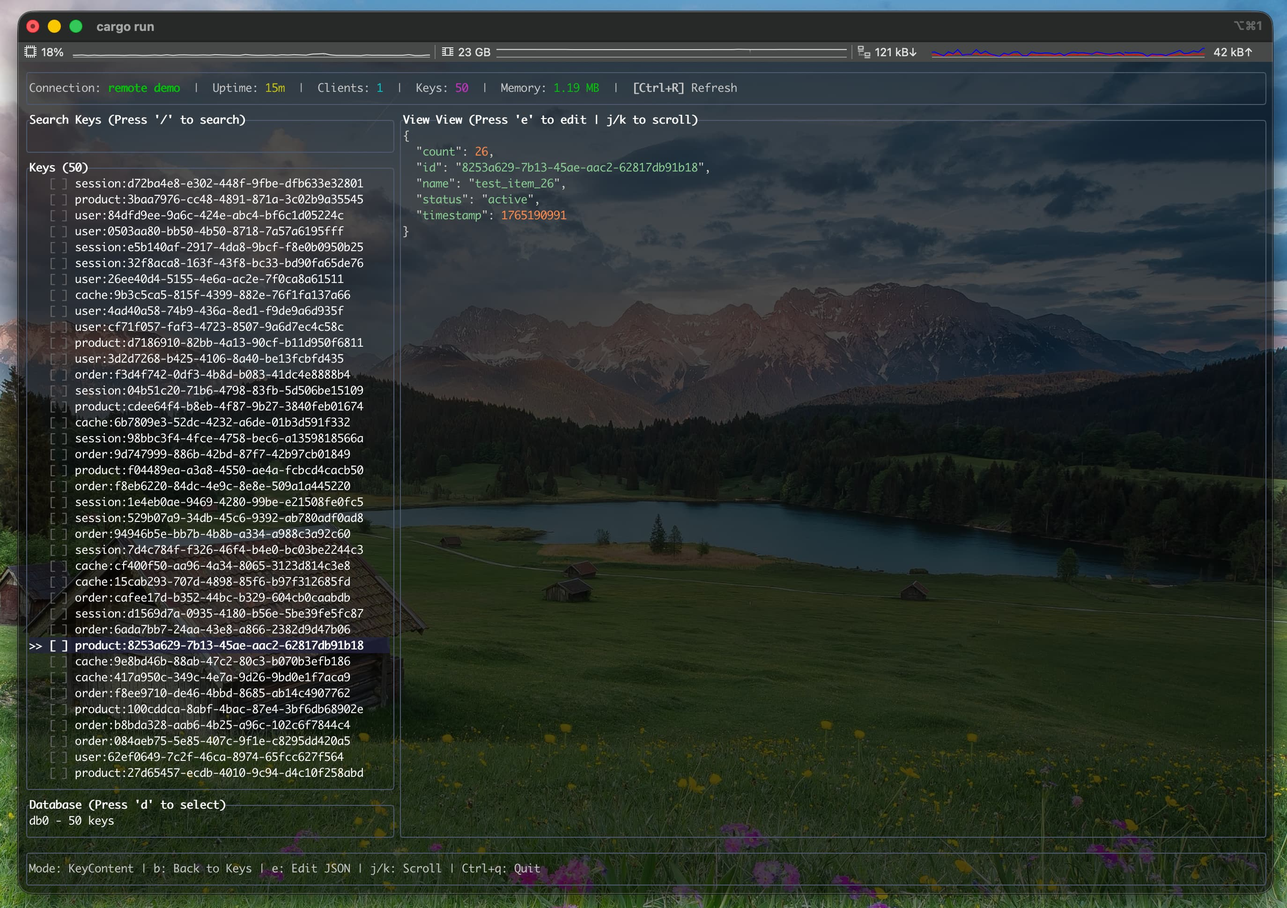
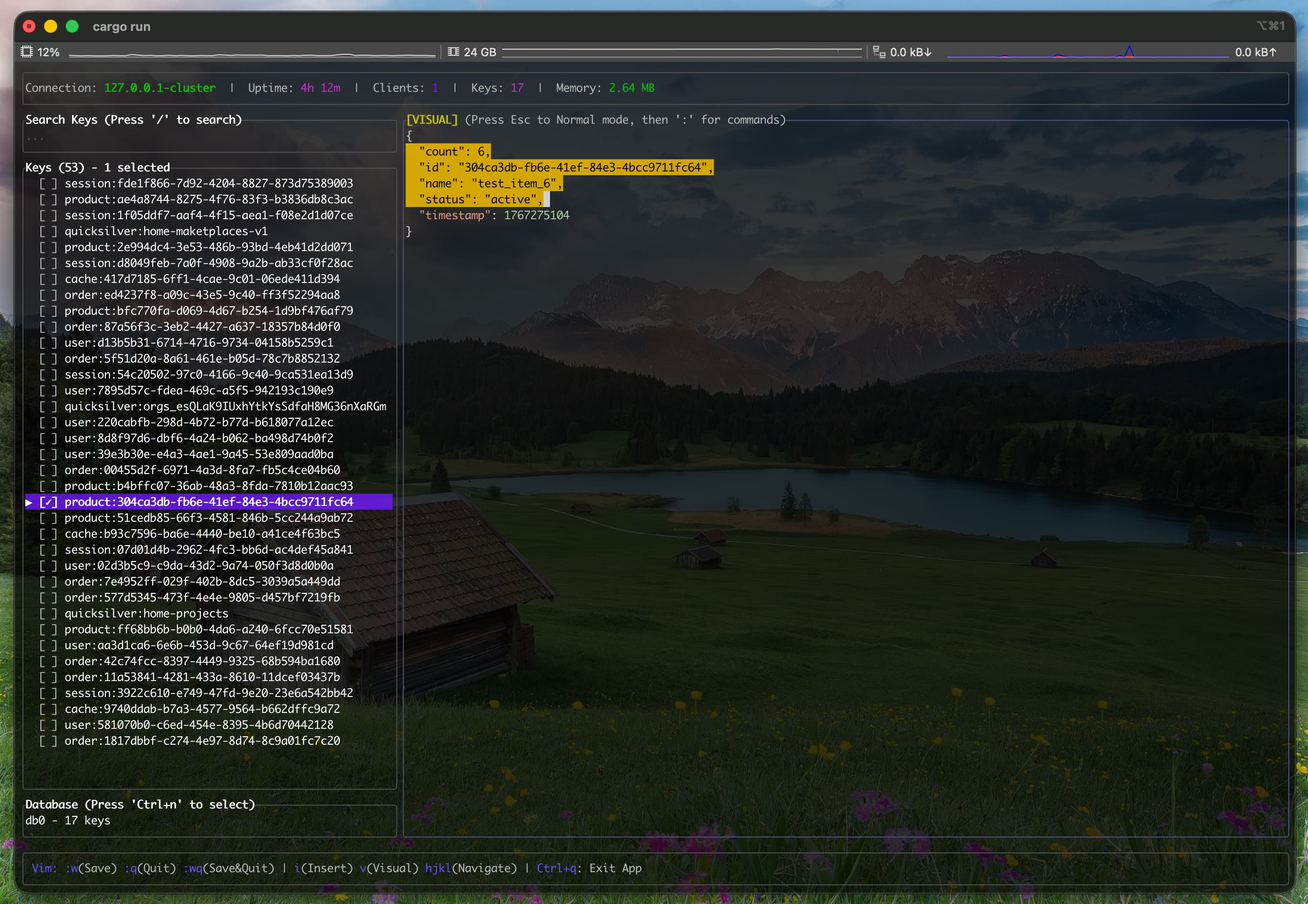
update documentation with new keybindings

diff --git a/src/widgets/command_mode.rs b/src/widgets/command_mode.rs
@@ -259,6 +259,7 @@ impl CommandMode {
                 block: Some(block),
                 base: base_style,
                 cursor_style,
+                status_line: None,
                 ..Default::default()
             };
             let editor_view = EditorView::new(&mut self.editor_state).theme(theme);

diff --git a/README.md b/README.md
@@ -18,6 +18,7 @@ A lightweight Redis terminal management tool built with Rust and Ratatui.
 - **Server Monitoring** - Real-time server stats
 - **Command Interface** - Execute Redis commands directly
 - **Import/Export** - JSON data import/export with full Redis type support
+- **Theme Support** - Dark/Light theme
 
 ## Installation
 
@@ -69,24 +70,17 @@ For `redis-cli -c` format, a single node is used as the cluster entry point. The
 
 For Redis Cluster setup, see [Cluster Documentation](docs/CLUSTER.md).
 
-### Key Operations
-
-- Browse and search keys in the sidebar
-- Press `Space` to select multiple keys
-- Press `Delete` to remove selected keys
-
-### Data Import/Export
-
-- `Ctrl+E` - Export data to JSON file
-- `Ctrl+L` - Import data from JSON file
-- See [IMPORT_DATA.md](docs/IMPORT_DATA.md) for format details
-
 ### Commands
 
 - `>` - Enter command mode
 - `/` - Search keys
 - `Esc` - Exit current mode
 - `Ctrl+t` - Quick connection switch
+- `Ctrl+e` - Export data
+- `Ctrl+l` - Import data
+- `Ctrl+n` - Switch database
+- `F5` - Refresh server stats
+- `F10` - Open settings (theme, transparency)
 
 ### Copy Text
 

diff --git a/README_CN.md b/README_CN.md
@@ -18,6 +18,7 @@
 - **服务器监控** - 实时服务器统计信息
 - **命令界面** - 直接执行 Redis 命令
 - **导入/导出** - JSON 数据导入/导出，支持所有 Redis 数据类型
+- **主题支持** - 深色/浅色主题
 
 ## 安装
 
@@ -69,17 +70,6 @@ redis-cli -c -h 127.0.0.1 -p 6379
 
 Redis 集群设置请参阅 [集群文档](docs/CLUSTER_CN.md)。
 
-### 键操作
-
-- 在侧边栏浏览和搜索键
-- 按 `空格` 选择多个键
-- 按 `Delete` 删除选中的键
-
-### 数据导入/导出
-
-- `Ctrl+E` - 导出数据到 JSON 文件
-- `Ctrl+L` - 从 JSON 文件导入数据
-- 格式详情请参阅 [导入文档](docs/IMPORT_DATA_CN.md)
 
 ### 命令
 
@@ -87,6 +77,11 @@ Redis 集群设置请参阅 [集群文档](docs/CLUSTER_CN.md)。
 - `/` - 搜索键
 - `Esc` - 退出当前模式
 - `Ctrl+t` - 快速连接切换
+- `Ctrl+e` - 导出数据
+- `Ctrl+l` - 导入数据
+- `Ctrl+n` - 切换数据库
+- `F5` - 刷新服务器统计信息
+- `F10` - 打开设置（主题、透明度）
 
 ### 复制文本
 

diff --git a/docs/KEYBINDINGS.md b/docs/KEYBINDINGS.md
@@ -5,6 +5,7 @@
 | Key      | Function         |
 | -------- | ---------------- |
 | `Ctrl+q` | Exit application |
+| `F10`    | Open settings    |
 
 ## Dashboard Mode
 
@@ -135,6 +136,23 @@ Press `/` to enter search mode:
 - First matching result is auto-selected
 - Press `Esc` in search mode to return to navigation mode
 - Press `Esc` again to close the dialog
+
+## Settings Dialog
+
+Press `F10` to open the Settings dialog:
+
+| Key                | Function                    |
+| ------------------ | --------------------------- |
+| `↑↓` / `j`/`k`     | Navigate settings           |
+| `Tab`              | Navigate settings           |
+| `←→` / `h`/`l`     | Change theme (Dark/Light)   |
+| `Space` / `Enter`  | Toggle current setting      |
+| `Esc`              | Close settings              |
+
+**Tips**:
+- Theme changes apply immediately
+- Settings are automatically saved when closing the dialog
+- Dark theme supports background transparency option
 
 ## Common Workflows
 

diff --git a/docs/KEYBINDINGS_CN.md b/docs/KEYBINDINGS_CN.md
@@ -5,6 +5,7 @@
 | 按键     | 功能     |
 | -------- | -------- |
 | `Ctrl+q` | 退出应用 |
+| `F10`    | 打开设置 |
 
 ## Dashboard 模式
 
@@ -137,6 +138,23 @@
 - 第一个匹配结果会自动选中
 - 在搜索模式下按 `Esc` 返回导航模式
 - 再次按 `Esc` 关闭对话框
+
+## 设置对话框
+
+按 `F10` 打开设置对话框：
+
+| 按键               | 功能                        |
+| ------------------ | --------------------------- |
+| `↑↓` / `j`/`k`     | 导航设置项                  |
+| `Tab`              | 导航设置项                  |
+| `←→` / `h`/`l`     | 切换主题（深色/浅色）       |
+| `Space` / `Enter`  | 切换当前设置                |
+| `Esc`              | 关闭设置                    |
+
+**提示**:
+- 主题更改会立即生效
+- 关闭对话框时会自动保存设置
+- 深色主题支持背景透明选项
 
 ## 常用工作流
 
